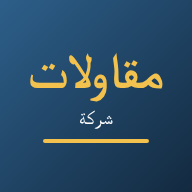
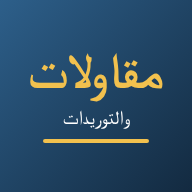
اسم التطبيق: المقاولات العامة والتوريدات
Claude-Session: https://claude.ai/code/session_01CprLEt73kXEQvS1RUHdgSR

Changed region(s): [[0.5312, 0.5625, 0.6875, 0.6875], [0.3125, 0.5625, 0.5, 0.6875]]

diff --git a/index.html b/index.html
@@ -1,7 +1,7 @@
 <!doctype html>
 <html lang="ar" dir="rtl"><head><meta charset="utf-8">
 <meta name="viewport" content="width=device-width,initial-scale=1,viewport-fit=cover">
-<title>شركة مقاولات</title>
+<title>المقاولات العامة والتوريدات</title>
 <meta name="theme-color" content="#1c3a5a"><meta name="mobile-web-app-capable" content="yes">
 <link rel="manifest" href="manifest.json"><link rel="icon" href="icon-192.png"><link rel="apple-touch-icon" href="icon-192.png">
 <link rel="preconnect" href="https://fonts.googleapis.com"><link rel="preconnect" href="https://fonts.gstatic.com" crossorigin>
